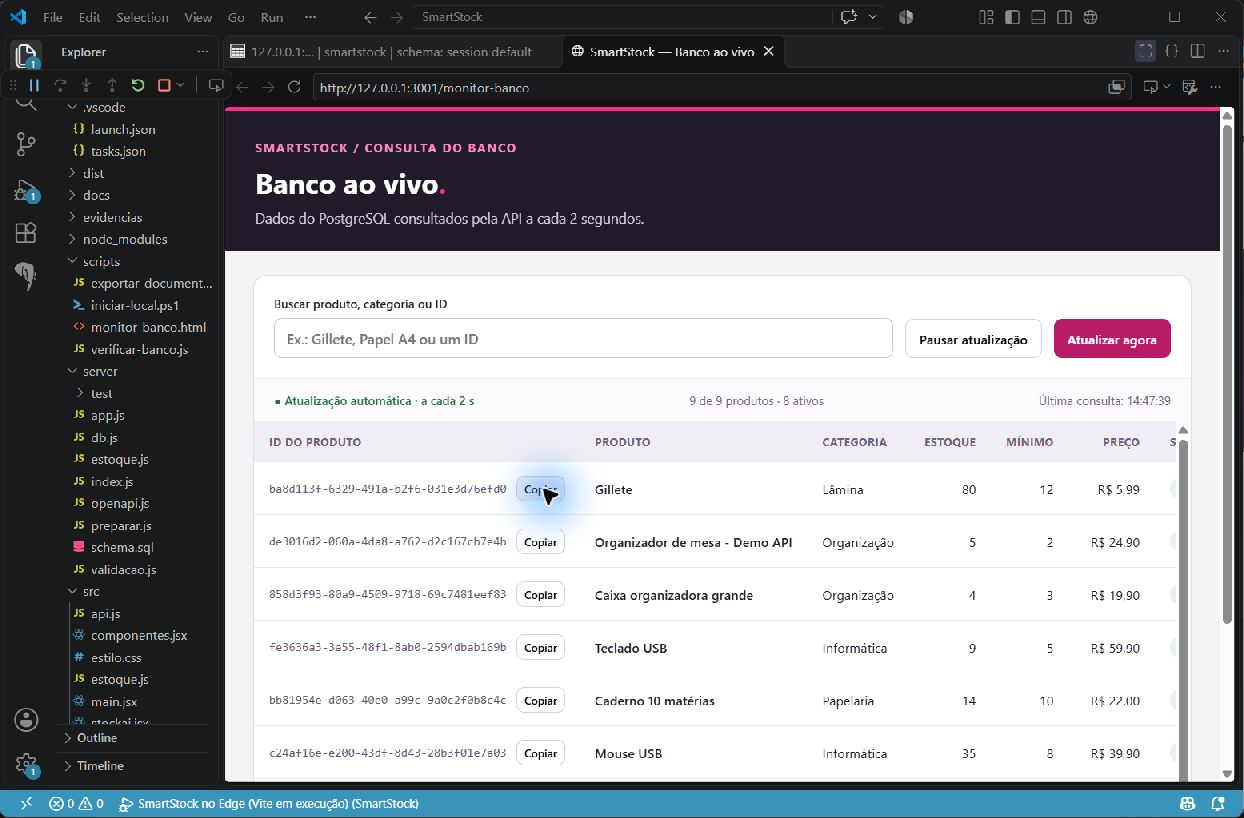
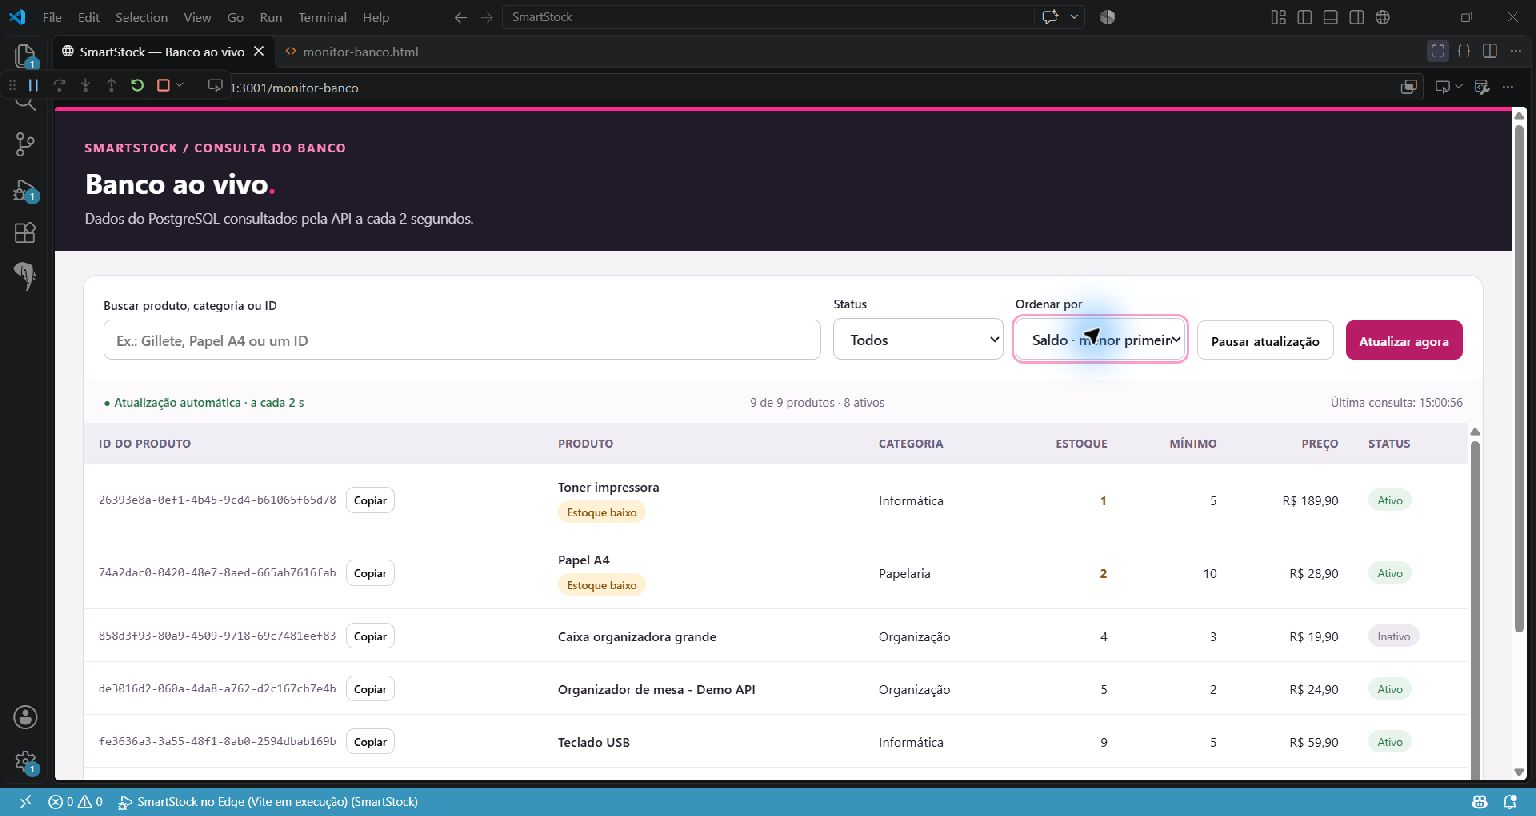
Finaliza filtros e alertas do Banco ao vivo para entrega do Dia 3

diff --git a/scripts/monitor-banco.html b/scripts/monitor-banco.html
@@ -16,7 +16,8 @@
     .painel { background: white; border: 1px solid #e2dce7; border-radius: 14px; overflow: hidden; }
     .controles { padding: 20px; display: flex; gap: 12px; align-items: end; flex-wrap: wrap; border-bottom: 1px solid #eee8f0; }
     label { font-size: 12px; font-weight: 600; display: grid; gap: 7px; flex: 1; min-width: 220px; }
-    input { font: inherit; font-size: 14px; padding: 10px 12px; border: 1px solid #cbc3d3; border-radius: 8px; width: 100%; }
+    input, select { font: inherit; font-size: 14px; padding: 10px 12px; border: 1px solid #cbc3d3; border-radius: 8px; width: 100%; background: white; color: inherit; }
+    label.filtro { flex: 0 1 170px; min-width: 150px; }
     button { cursor: pointer; font: inherit; font-size: 13px; font-weight: 600; border: 1px solid #d5cedd; background: white; border-radius: 8px; padding: 10px 13px; transition: background 150ms; }
     button:hover { background: #f6edf2; }
     button:disabled { opacity: .55; cursor: wait; }
@@ -39,6 +40,7 @@
     .baixo { color: #8b5c10; font-weight: 700; }
     .badge { display: inline-block; border-radius: 20px; padding: 4px 9px; font-size: 11px; background: #e7f3eb; color: #247044; }
     .badge.inativo { background: #eeeaf1; color: #74677e; }
+    .badge.alerta { display: block; width: max-content; margin-top: 6px; background: #fff1d6; color: #86530a; font-weight: 600; }
     .vazio { padding: 30px; text-align: center; color: #786b83; }
     .nota { font-size: 12px; color: #796c83; margin: 14px 2px; line-height: 1.6; }
     #aviso { color: #a12036; font-size: 13px; }
@@ -59,6 +61,8 @@
     <section class="painel" aria-label="Produtos do PostgreSQL">
       <div class="controles">
         <label>Buscar produto, categoria ou ID<input id="busca" type="search" placeholder="Ex.: Gillete, Papel A4 ou um ID" autocomplete="off"></label>
+        <label class="filtro">Status<select id="status"><option value="todos">Todos</option><option value="ativos">Ativos</option><option value="inativos">Inativos</option></select></label>
+        <label class="filtro">Ordenar por<select id="ordem"><option value="recente">Cadastro mais recente</option><option value="nome">Nome · A a Z</option><option value="saldo">Saldo · menor primeiro</option></select></label>
         <button id="alternar" type="button" aria-pressed="true">Pausar atualização</button>
         <button id="atualizar" class="primario" type="button">Atualizar agora</button>
       </div>
@@ -99,7 +103,17 @@
 
     function desenhar() {
       const busca = normalizar($('busca').value.trim())
-      const filtrados = produtos.filter(p => normalizar(`${p.nome} ${p.categoria} ${p.id}`).includes(busca))
+      const status = $('status').value
+      const porNome = (a, b) => a.nome.localeCompare(b.nome, 'pt-BR', { sensitivity: 'base' }) || a.id.localeCompare(b.id)
+      const ordens = {
+        recente: (a, b) => new Date(b.criadoEm) - new Date(a.criadoEm) || porNome(a, b),
+        nome: porNome,
+        saldo: (a, b) => a.quantidade - b.quantidade || porNome(a, b),
+      }
+      const filtrados = produtos.filter(p =>
+        (status === 'todos' || (status === 'ativos' ? p.ativo : !p.ativo)) &&
+        normalizar(`${p.nome} ${p.categoria} ${p.id}`).includes(busca)
+      ).sort(ordens[$('ordem').value])
       const fragmento = document.createDocumentFragment()
       for (const p of filtrados) {
         const linha = document.createElement('tr')
@@ -126,7 +140,13 @@
         })
         identificador.append(codigo, copiar)
         id.append(identificador)
-        celula(linha, p.nome, 'nome')
+        const nome = celula(linha, p.nome, 'nome')
+        if (p.ativo && p.quantidade <= p.minimo) {
+          const alerta = document.createElement('span')
+          alerta.className = 'badge alerta'
+          alerta.textContent = 'Estoque baixo'
+          nome.append(alerta)
+        }
         celula(linha, p.categoria)
         celula(linha, numero.format(p.quantidade), 'numero' + (p.ativo && p.quantidade <= p.minimo ? ' baixo' : ''))
         celula(linha, numero.format(p.minimo), 'numero')
@@ -140,7 +160,7 @@
       }
       if (!filtrados.length) {
         const linha = document.createElement('tr')
-        celula(linha, 'Nenhum produto encontrado.', 'vazio').colSpan = 7
+        celula(linha, produtos.length ? 'Nenhum produto corresponde à busca e ao status selecionados.' : 'Nenhum produto cadastrado.', 'vazio').colSpan = 7
         fragmento.append(linha)
       }
       $('produtos').replaceChildren(fragmento)
@@ -172,7 +192,7 @@
         const assinatura = JSON.stringify(dados)
         if (assinatura !== ultimaAssinatura) {
           anterior = ultimaAssinatura ? new Map(produtos.map(p => [p.id, JSON.stringify(p)])) : null
-          produtos = dados.sort((a, b) => new Date(b.criadoEm) - new Date(a.criadoEm) || a.nome.localeCompare(b.nome))
+          produtos = dados
           ultimaAssinatura = assinatura
           desenhar()
           anterior = null
@@ -194,6 +214,8 @@
     }
 
     $('busca').addEventListener('input', desenhar)
+    $('status').addEventListener('change', desenhar)
+    $('ordem').addEventListener('change', desenhar)
     $('atualizar').addEventListener('click', atualizar)
     $('alternar').addEventListener('click', () => {
       automatico = !automatico

diff --git a/docs/dia-3/roteiro.md b/docs/dia-3/roteiro.md
@@ -12,7 +12,7 @@
 4. Em Movimentações, tente uma saída de 6 unidades. Ela deve falhar. Faça uma saída de 2: saldo 3. Depois uma entrada de 1: saldo 4. O histórico também inclui a entrada do saldo inicial.
 5. Recarregue a página. O saldo e o histórico continuam no PostgreSQL; a tela não depende mais do `localStorage`.
 
-   Como demonstração adicional, abra `http://127.0.0.1:3001/monitor-banco` no navegador integrado do VS Code. A aba **Banco ao vivo** consulta a API a cada 2 segundos, mostrando novos cadastros e alterações de saldo sem precisar reexecutar uma consulta SQL. Os IDs completos ficam visíveis e podem ser copiados para o Swagger. O monitor só consulta; as alterações são realizadas pelo site ou pela API.
+   Como demonstração adicional, abra `http://127.0.0.1:3001/monitor-banco` no navegador integrado do VS Code. A aba **Banco ao vivo** consulta a API a cada 2 segundos, mostrando novos cadastros e alterações de saldo sem precisar reexecutar uma consulta SQL. Os IDs completos ficam visíveis e podem ser copiados para o Swagger. Use o filtro Todos / Ativos / Inativos e ordene por nome, menor saldo ou cadastro recente. A etiqueta Estoque baixo considera apenas produtos ativos com saldo menor ou igual ao mínimo. Os controles continuam selecionados quando chegam novos dados. O monitor só consulta; as alterações são realizadas pelo site ou pela API.
 6. Em Relatórios, filtre o produto e o tipo Saída e exporte o CSV. Compare a linha exportada com a tabela.
 7. Em Configurações, salve o nome de exibição e recarregue. O perfil desta demonstração é compartilhado, e a preferência de alertas fica guardada para a integração futura.
 8. Abra [Swagger local](http://127.0.0.1:3001/api/docs/). Expanda `GET /api/produtos`, clique em **Try it out**, informe a busca e execute. Mostre o status 200 e o JSON. Mostre o esquema do `POST /api/movimentacoes` e a possibilidade de erro 409 por saldo insuficiente.

diff --git a/README.md b/README.md
@@ -72,11 +72,13 @@ npm run build
 npm start
 ```
 
-## Organização do código
+## Banco ao vivo
 
-Para acompanhar cadastros e movimentações automaticamente, abra o [Banco ao vivo](http://127.0.0.1:3001/monitor-banco), com a API e o PostgreSQL em execução. O monitor consulta `GET /api/produtos?status=todos` a cada **2 segundos** enquanto a aba está visível. Ele mostra o **ID completo**, permite copiar o ID, buscar por produto/categoria/ID e pausar ou retomar as consultas. É uma página de consulta dos dados do PostgreSQL pela API; não altera o banco.
+Para acompanhar cadastros e movimentações automaticamente, abra o [Banco ao vivo](http://127.0.0.1:3001/monitor-banco), com a API e o PostgreSQL em execução. O monitor consulta `GET /api/produtos?status=todos` a cada **2 segundos** enquanto a aba está visível. Ele mostra o **ID completo**, permite copiar o ID, buscar por produto/categoria/ID e pausar ou retomar as consultas. Os filtros **Todos / Ativos / Inativos** combinam com a busca. A ordenação permite cadastro mais recente, nome de A a Z ou menor saldo primeiro. A etiqueta **Estoque baixo** identifica produtos ativos com saldo menor ou igual ao mínimo. Busca, status e ordem são mantidos durante as atualizações. É uma página de consulta dos dados do PostgreSQL pela API; não altera o banco.
 
 Nesta instalação do VS Code, pressione **F1**, escolha **Browser: Open Integrated Browser** e informe `http://127.0.0.1:3001/monitor-banco` para deixar a tabela aberta dentro do editor. Ela também funciona no navegador comum. A grade de resultados da extensão PostgreSQL continua mostrando o resultado da última consulta SQL executada; a atualização periódica pertence à nova aba **Banco ao vivo**.
+
+## Organização do código
 
 | Caminho | Responsabilidade |
 | --- | --- |

diff --git a/docs/dia-3/validacao.md b/docs/dia-3/validacao.md
@@ -33,6 +33,8 @@ Verificação executada em 25/11/2026, em Windows, com Node.js 24, Express 5 e P
 
 Complemento de visualização: o **Banco ao vivo**, em `/monitor-banco`, foi aberto no navegador integrado do VS Code e conferido com os dados reais, incluindo a Gillete e seu ID completo. Busca por nome e ID, botão de copiar, pausa e atualização manual foram verificados. Em um schema temporário separado, a tabela passou de vazia para um produto com saldo 7 após cadastrar 5 unidades e lançar uma entrada de 2, sem recarregar a página. O schema de teste foi removido ao terminar. Os nove testes de integração também passaram após a inclusão do monitor. A captura `12-monitor-banco.png` registra a aba no VS Code.
 
+Na revisão final, os nove testes passaram novamente e o build concluiu. Em outro schema temporário, três produtos permitiram verificar Todos / Ativos / Inativos, ordenação por nome com acento, saldo crescente e cadastro recente, busca combinada, ausência de resultados e cópia do UUID. O produto ativo com saldo igual ao mínimo recebeu a etiqueta; o inativo com saldo zero não recebeu. Após uma entrada de 9 unidades, o saldo passou de 2 para 11 automaticamente, a etiqueta desapareceu e busca/ordenação permaneceram selecionadas. Pausa e atualização manual também foram conferidas, sem erros JavaScript capturados. O catálogo real foi preservado.
+
 O monitor faz consultas periódicas de leitura pela API a cada 2 segundos enquanto está visível. Não é uma assinatura de eventos do PostgreSQL. Ele exige API e banco ligados e mantém os últimos dados recebidos se a consulta falhar, sinalizando a indisponibilidade. A grade da extensão PostgreSQL é uma ferramenta separada e continua exigindo reexecução da consulta SQL.
 
 ## Limites comunicados na apresentação
